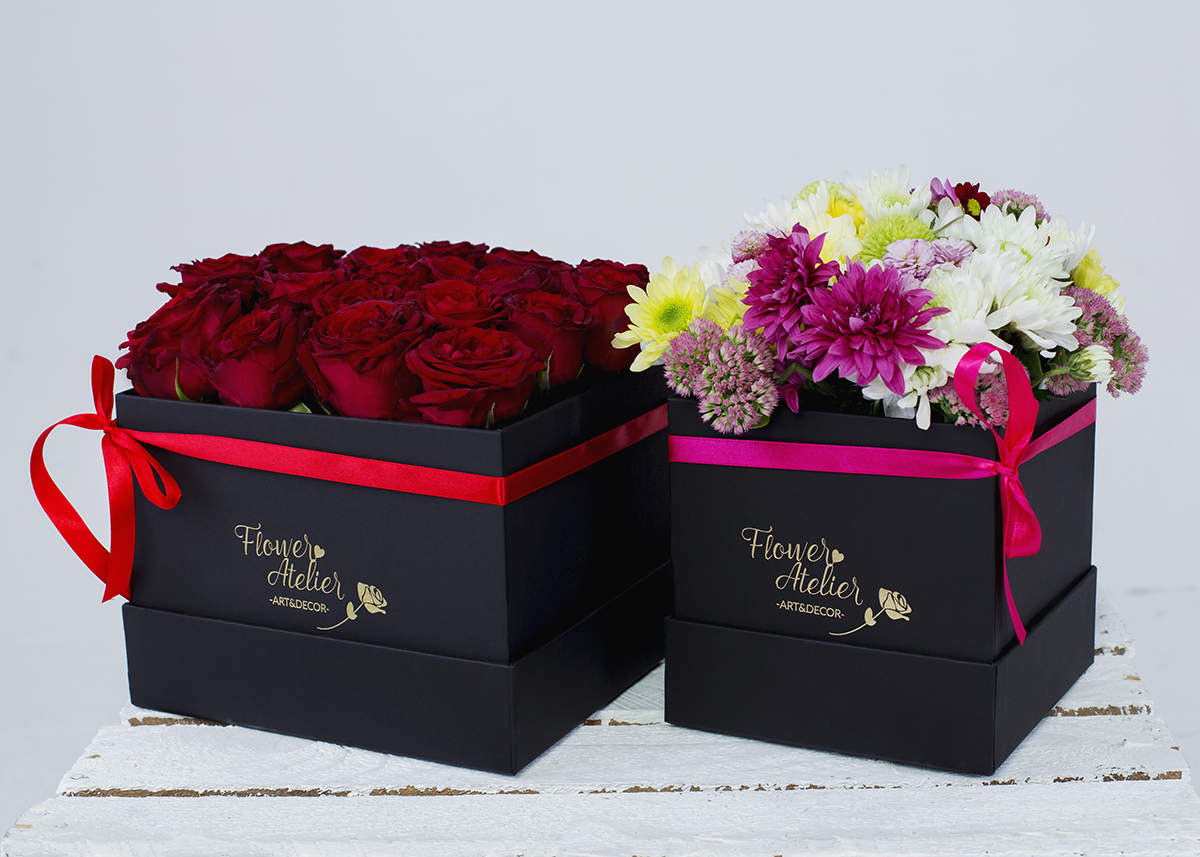
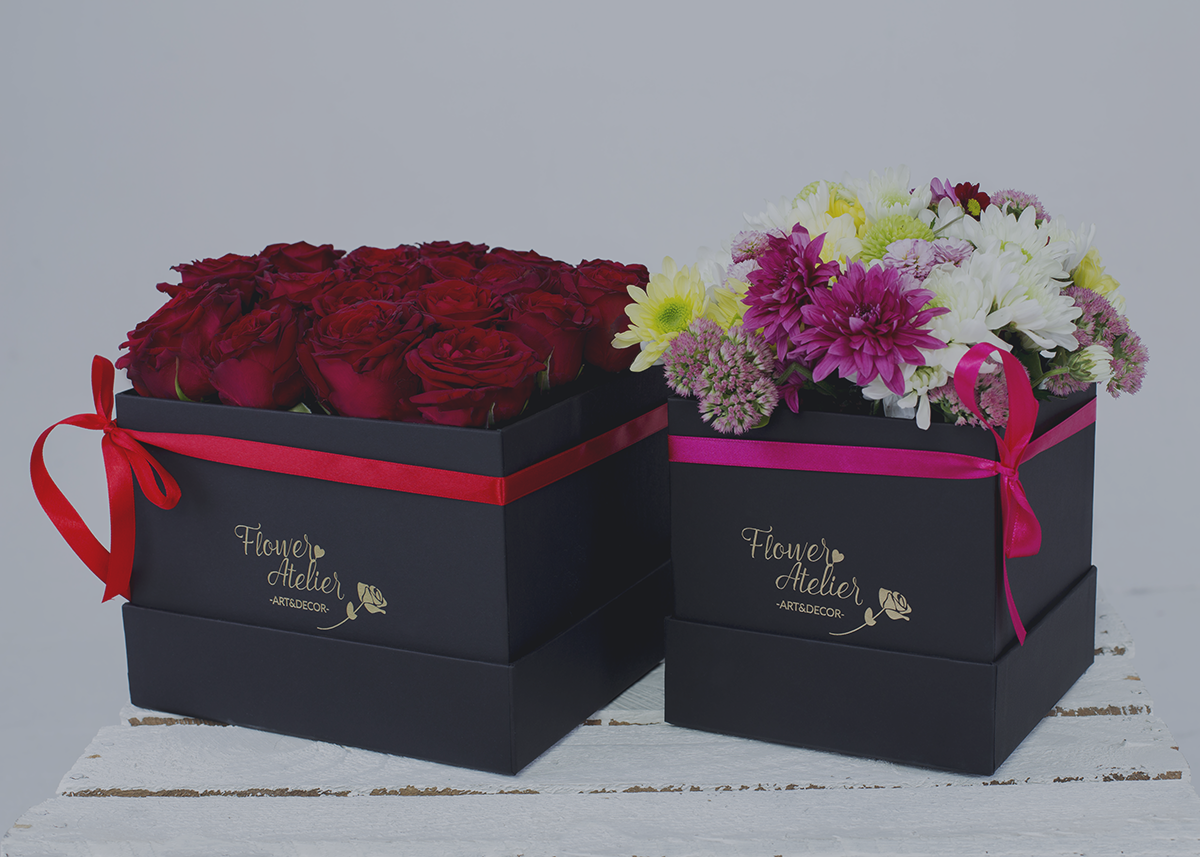
Quotes on home page

diff --git a/floweratelier/css/style.css b/floweratelier/css/style.css
@@ -261,6 +261,11 @@ p {
     display: none;
   }
 }
+@media screen and (max-width: 768px) {
+  #fh5co-header #fh5co-logo {
+    content:url("logoBialemin.png");
+  }
+}
 #fh5co-header #fh5co-main-nav ul {
   padding: 0;
   margin: 4px 0 0 0;
@@ -363,6 +368,44 @@ p {
     font-size: 30px;
   }
 }
+#fh5co-home .flexslider .slides blockquote {
+  position: absolute;
+  z-index: 5;
+  width: 100%;
+  top: 50%;
+  margin-top: -129px;
+  text-align: center;
+  font-size: 30px;
+  line-height: 1.5;
+  padding-left: 0;
+  border-left: none;
+  color: white !important;
+}
+@media screen and (max-width: 768px) {
+  #fh5co-home .flexslider .slides blockquote {
+    padding: 0 20px;
+  }
+}
+#fh5co-home .flexslider .slides blockquote p {
+  font-size: 40px;
+  line-height: 1.5;
+  font-family: "Noto Sans", sans-serif;
+  color: ghostwhite!important;
+}
+@media screen and (max-width: 768px) {
+  #fh5co-home .flexslider .slides blockquote p {
+    font-size: 20px;
+    line-height: 1.5;
+  }
+}
+#fh5co-home .flexslider .slides blockquote p cite {
+  display: block;
+  padding-top: 20px;
+  font-size: 20px;
+  font-family: "Noto Sans", sans-serif;
+  font-style: normal;
+  color: rgba(255, 255, 255, 0.7);
+}
 #fh5co-home .flexslider .fh5co-text .fh5co-go {
   margin-top: 30px;
 }
@@ -398,16 +441,16 @@ p {
   background-repeat: no-repeat;
   background-size: cover;
 }
-#fh5co-home .flexslider .fh5co-overlay {
-  position: absolute;
-  z-index: 3;
-  top: 0;
-  bottom: 0;
-  left: 0;
-  right: 0;
-  opacity: .3;
-  background: #444853;
-}
+/*#fh5co-home .flexslider .fh5co-overlay {*/
+  /*position: absolute;*/
+  /*z-index: 3;*/
+  /*top: 0;*/
+  /*bottom: 0;*/
+  /*left: 0;*/
+  /*right: 0;*/
+  /*opacity: .0;*/
+  /*background: #444853;*/
+/*}*/
 #fh5co-home .flexslider .flex-control-nav,
 #fh5co-home .flexslider .flex-direction-nav {
   display: none;
@@ -940,6 +983,7 @@ p {
 
 .fh5co-nav-toggle i::after {
   bottom: -7px;
+  color: #444853;
 }
 
 .fh5co-nav-toggle:hover i::before {
@@ -970,6 +1014,7 @@ p {
   -ms-transform: rotateZ(-45deg);
   -o-transform: rotateZ(-45deg);
   transform: rotateZ(-45deg);
+  color: #444853;
 }
 
 .fh5co-nav-toggle {

diff --git a/floweratelier/index.html b/floweratelier/index.html
@@ -141,6 +141,11 @@
 
 							<!--<h1 class="animate-box">Flower Atelier - pierwsza i jedyna pracownia florystyczna w Białymstoku oferująca najmodniejsze flowerboxy z możliwością personalizacji. </h1>-->
 							<br/>
+							<br/>
+							<br/>
+							<br/>
+							<br/>
+							<br/>
 							<div class="fh5co-go animate-box">
 								<a href="#" class="js-fh5co-next">
 									Dowiedz się więcej
@@ -152,9 +157,18 @@
 					</div>
 				</div>
 			  	<ul class="slides">
-			   	<li style="background-image: url(images/19a.png);" data-stellar-background-ratio="0.5"></li>
-			   	<li style="background-image: url(images/3.jpg);" data-stellar-background-ratio="0.5"></li>
-			   	<li style="background-image: url(images/1pa.png);" data-stellar-background-ratio="0.5"></li>
+			   	<li style="background-image: url(images/19a.png);" data-stellar-background-ratio="0.5"><br/>
+					<br/>	<blockquote>
+					<p>&bdquo;Posyłam kwiaty – niech powiedzą one To, czego usta nie mówią stęsknione&rdquo;<cite>&mdash; Adam Asnyk</cite></p>
+				</blockquote></li>
+			   	<li style="background-image: url(images/3.jpg);" data-stellar-background-ratio="0.5"><br/>
+					<br/><blockquote>
+					<p>&bdquo;Kwiat jest uśmiechem rośliny&rdquo; <cite>&mdash; Peter Chille</cite></p>
+				</blockquote></li>
+			   	<li style="background-image: url(images/1pa.png);" data-stellar-background-ratio="0.5"><br/>
+					<br/><blockquote>
+					<p>&bdquo;Gdzie kwitnie kwiat - musi być wiosna, a gdzie jest wiosna - wszystko wkrótce rozkwitnie&rdquo; <cite>&mdash; Friedrich Rückert</cite></p>
+				</blockquote></li>
 			  	</ul>
 
 			</div>
